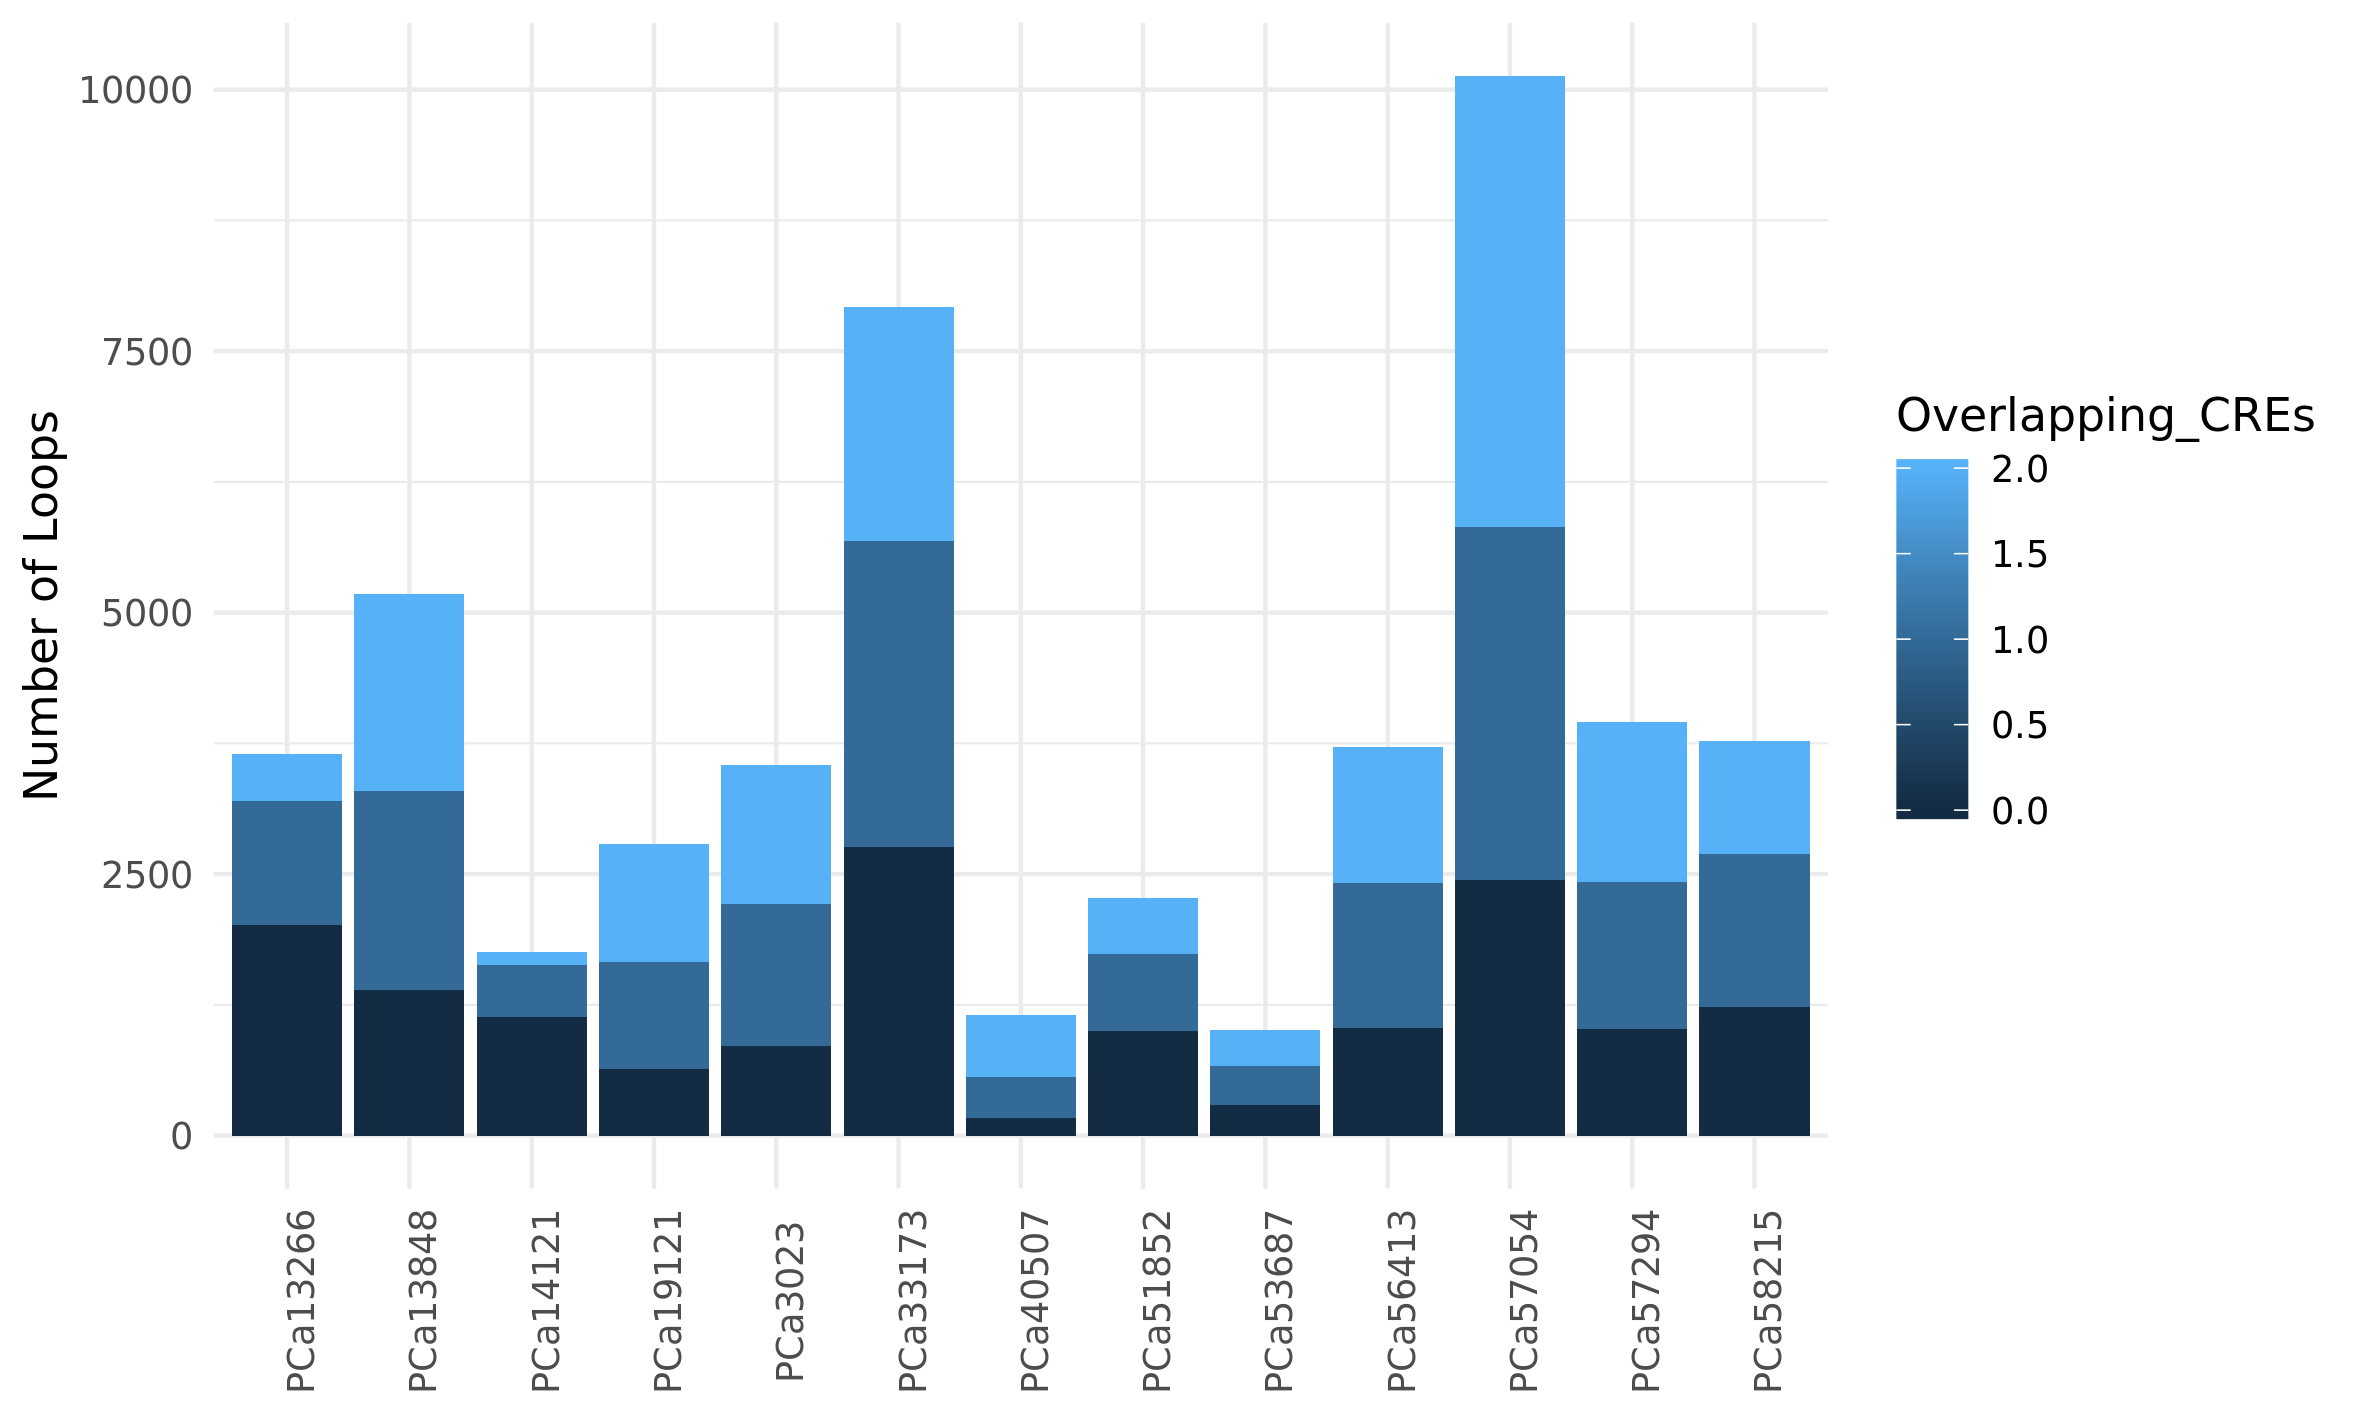
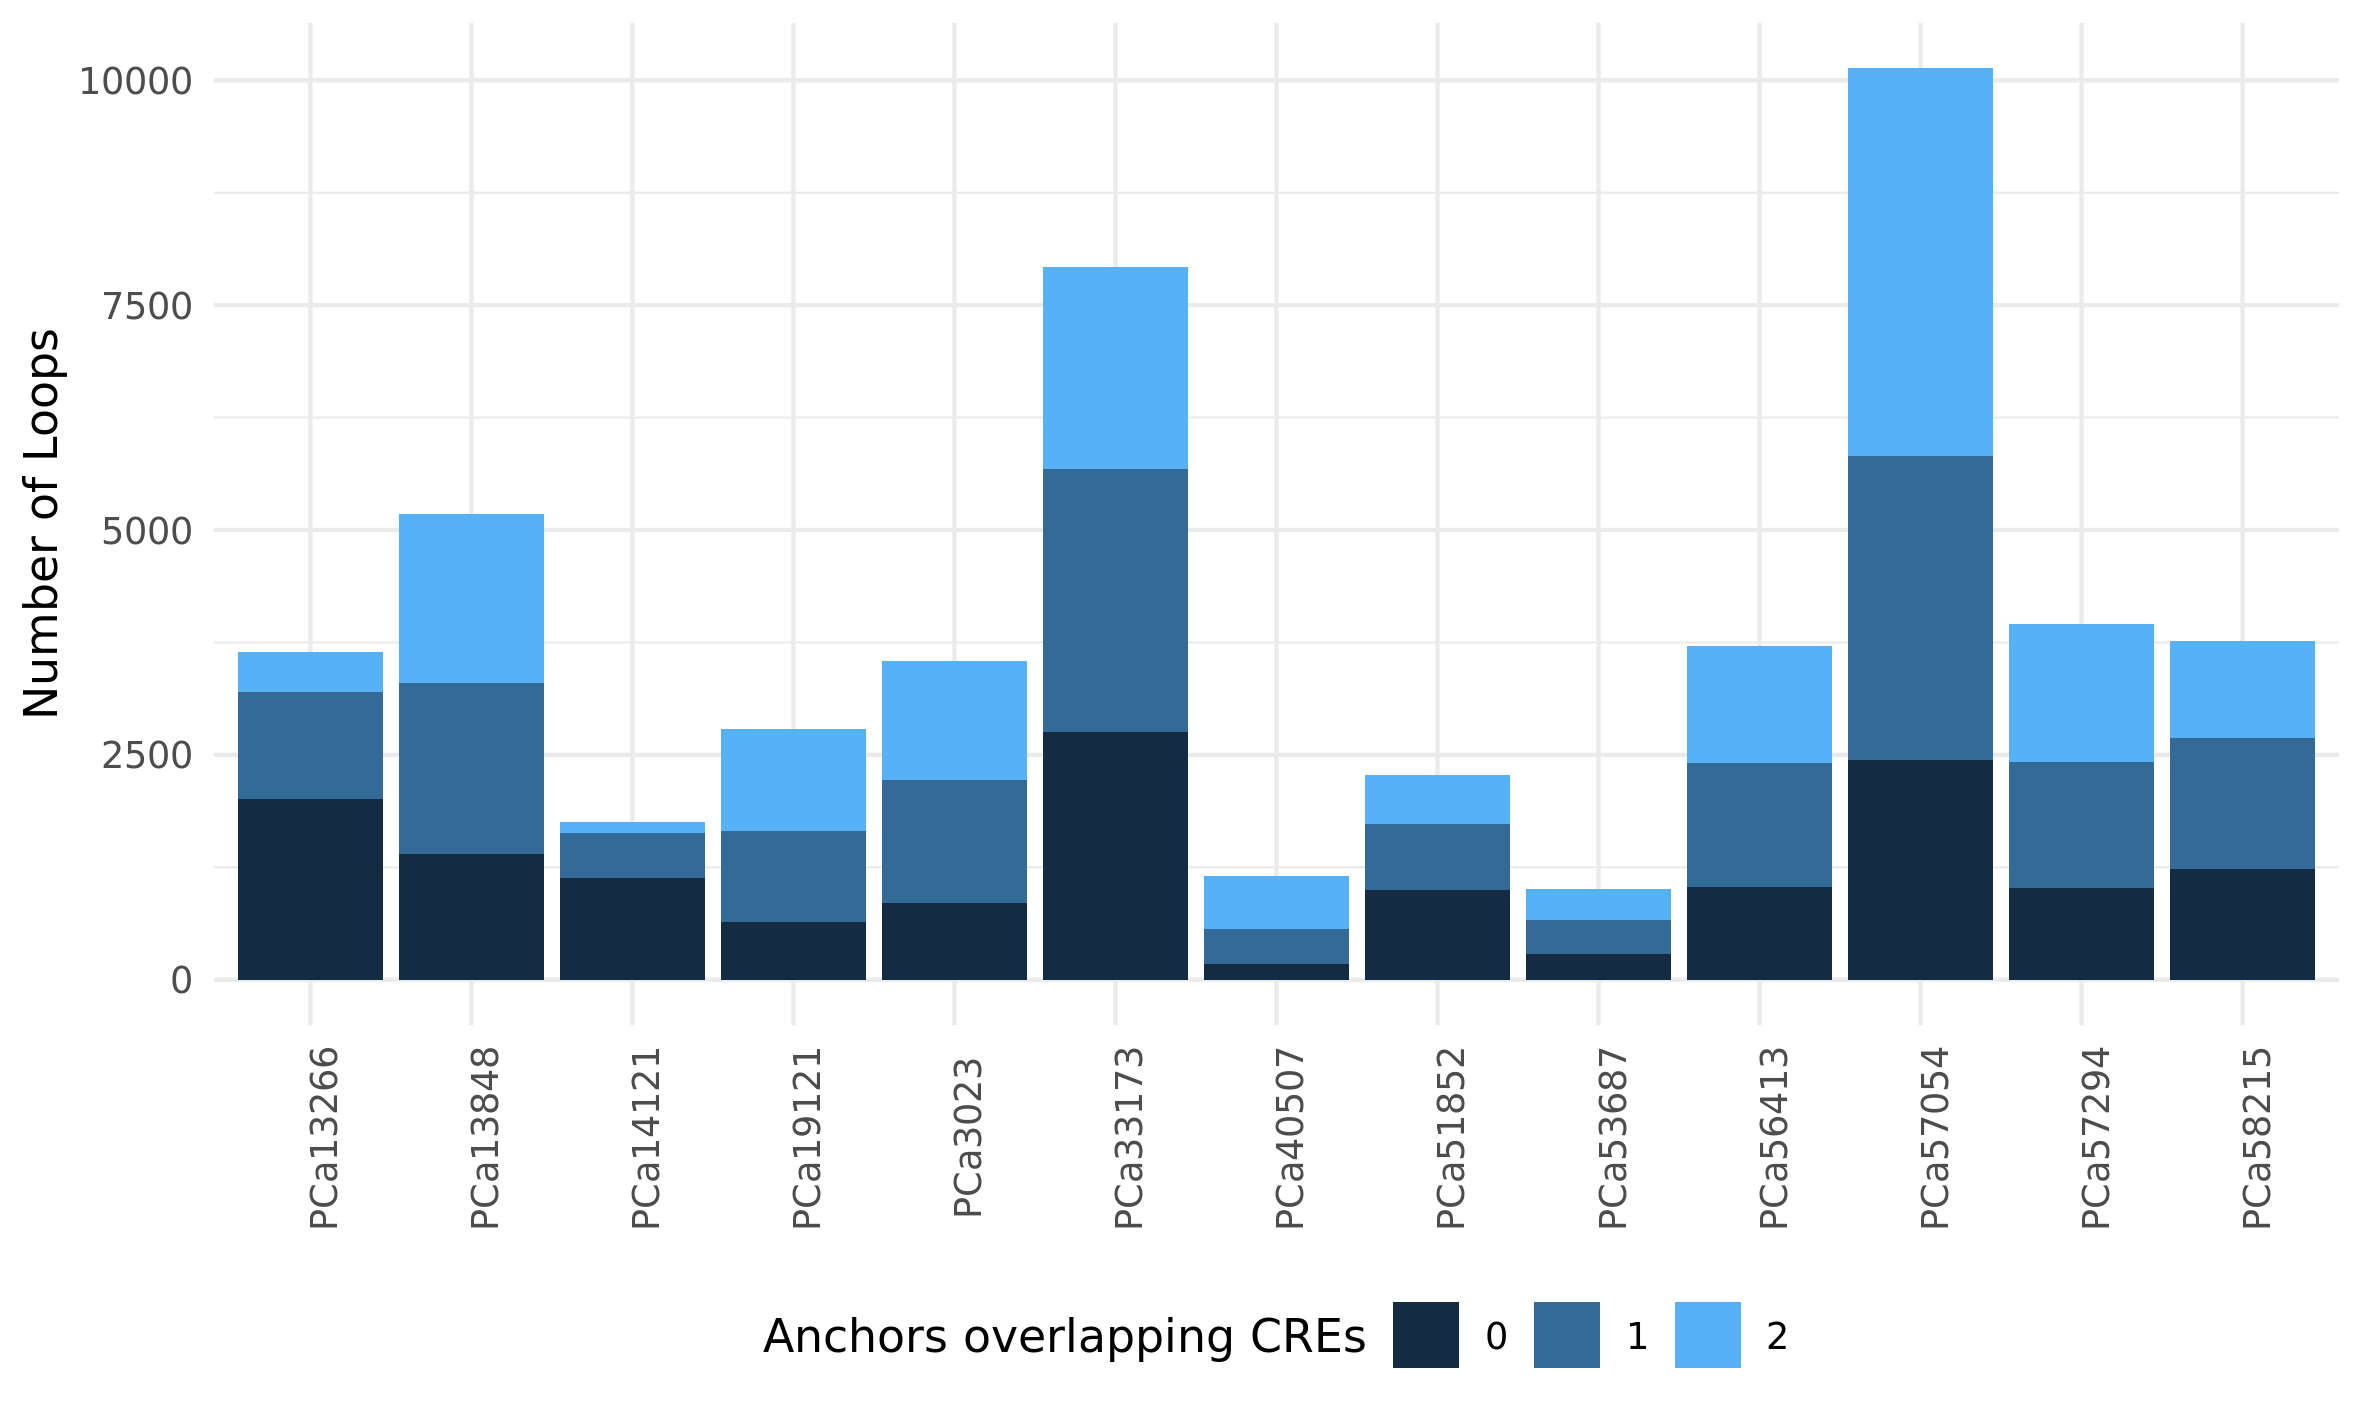
Updated images, text on loops overlapping CREs

diff --git a/Results/2020-01-02_loops/README.md b/Results/2020-01-02_loops/README.md
@@ -11,3 +11,13 @@ Running the default command with cLoops allows the program to select a minimum s
 The distance cutoff for each sample, DBSCAN parameters, and the number of loops called are listed in `Loops/loop-stats.tsv` (`Distance_Cutoff` in units of bp).
 
 ![Loops called across all samples](Plots/loop-stats.png)
+
+### Loops overlapping with active cis-regulatory elements
+
+We hypothesize that these loops correspond to promoter-enhancer loops and TAD boundaries, while loops that do not correspond to these features are false detections by `cLoops`.
+
+We start by seeing how many loops have 0, 1, or 2 endpoints overlapping active cis-regulatory elements (as defined by H3K27ac peaks).
+
+![Loop anchors overlappign active cis-regulatory elements](Plots/loop-CRE-overlap.sum.proportion.png)
+
+Per patient, 75% of loops called involved an active cis-regulatory element, on average.
